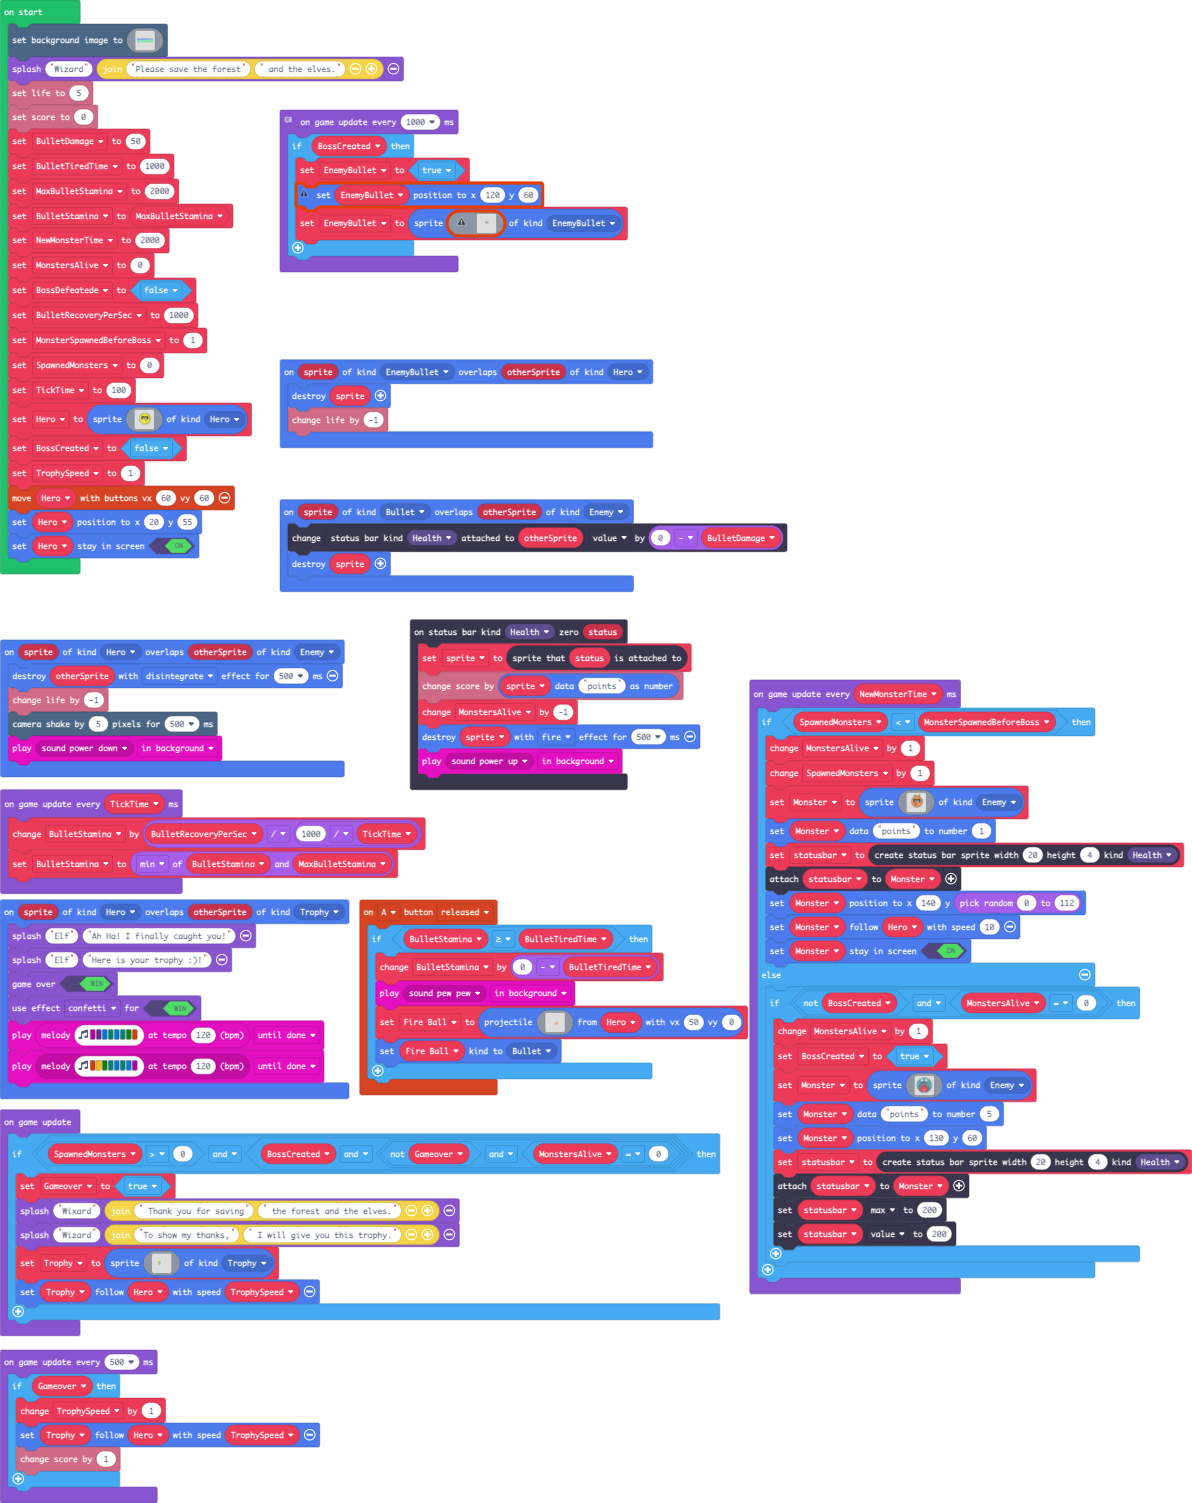
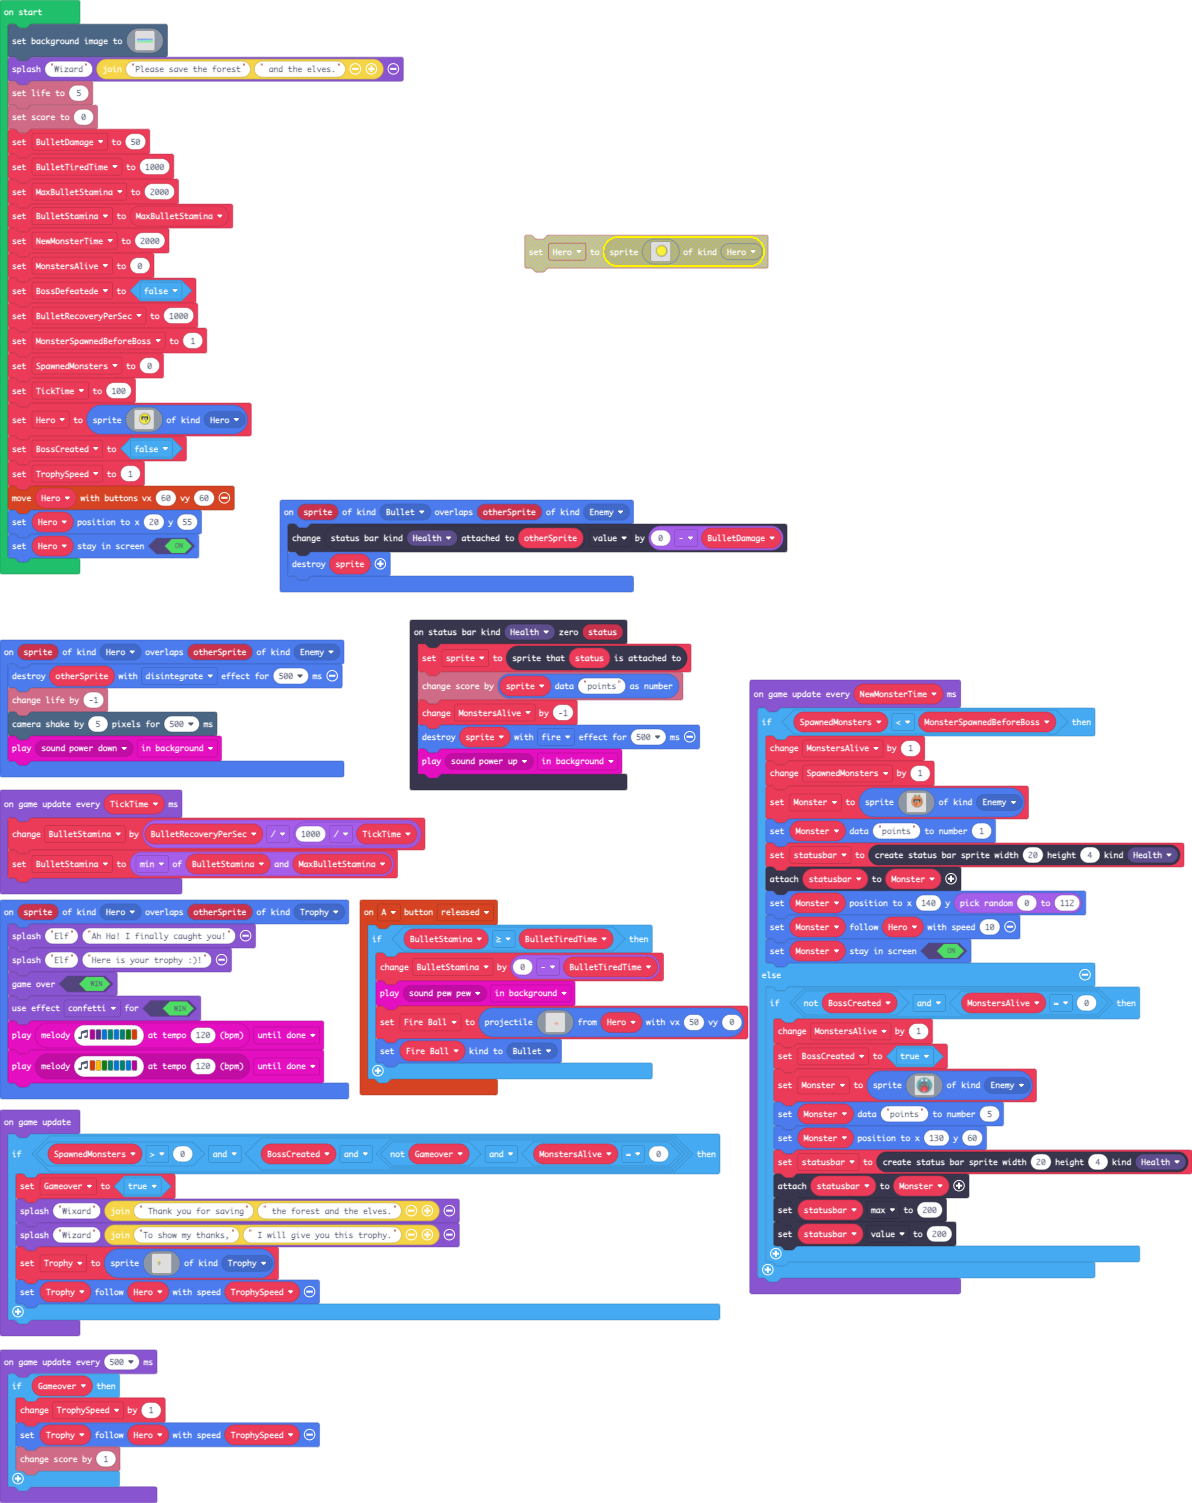
Update main.blocks, main.ts

diff --git a/main.ts b/main.ts
@@ -89,13 +89,8 @@ controller.A.onEvent(ControllerButtonEvent.Released, function () {
         Fire_Ball.setKind(SpriteKind.Bullet)
     }
 })
-sprites.onOverlap(SpriteKind.EnemyBullet, SpriteKind.Hero, function (sprite, otherSprite) {
-    sprites.destroy(sprite)
-    info.changeLifeBy(-1)
-})
 let statusbar: StatusBarSprite = null
 let Monster: Sprite = null
-let EnemyBullet = false
 let Trophy: Sprite = null
 let Gameover = false
 let Fire_Ball: Sprite = null
@@ -405,66 +400,6 @@ game.onUpdate(function () {
             ....................................................................................................
             `, SpriteKind.Trophy)
         Trophy.follow(Hero, TrophySpeed)
-    }
-})
-// Need help on this.
-// Monster attack back
-game.onUpdateInterval(1000, function () {
-    if (BossCreated) {
-        EnemyBullet = true
-        EnemyBullet.setPosition(120, 60)
-        EnemyBullet = sprites.create(img`
-            ......................................................................
-            ......................................................................
-            ......................................................................
-            ......................................................................
-            ......................................................................
-            ......................................................................
-            ......................................................................
-            ......................................................................
-            ......................................................................
-            ......................................................................
-            ......................................................................
-            ......................................................................
-            ......................................................................
-            ......................................................................
-            ......................................................................
-            ......................................................................
-            .................................c....................................
-            .......................................c..............................
-            ................................cccc.....c............................
-            ...............................ceeeecc..c.............................
-            ..............................ce7777eecc.c.c..c.......................
-            ..............................ce777777eec.............................
-            ..............................ce7777eecc..............................
-            ...............................ceeeecc......c.........................
-            ................................cccc.....c............................
-            .............................c......c..c..............................
-            ..............................c.........c.............................
-            .......................................c..............................
-            ......................................................................
-            ......................................................................
-            ......................................................................
-            ......................................................................
-            ......................................................................
-            ......................................................................
-            ......................................................................
-            ......................................................................
-            ......................................................................
-            ......................................................................
-            ......................................................................
-            ......................................................................
-            ......................................................................
-            ......................................................................
-            ......................................................................
-            ......................................................................
-            ......................................................................
-            ......................................................................
-            ......................................................................
-            ......................................................................
-            ......................................................................
-            ......................................................................
-            `, SpriteKind.EnemyBullet)
     }
 })
 game.onUpdateInterval(TickTime, function () {
